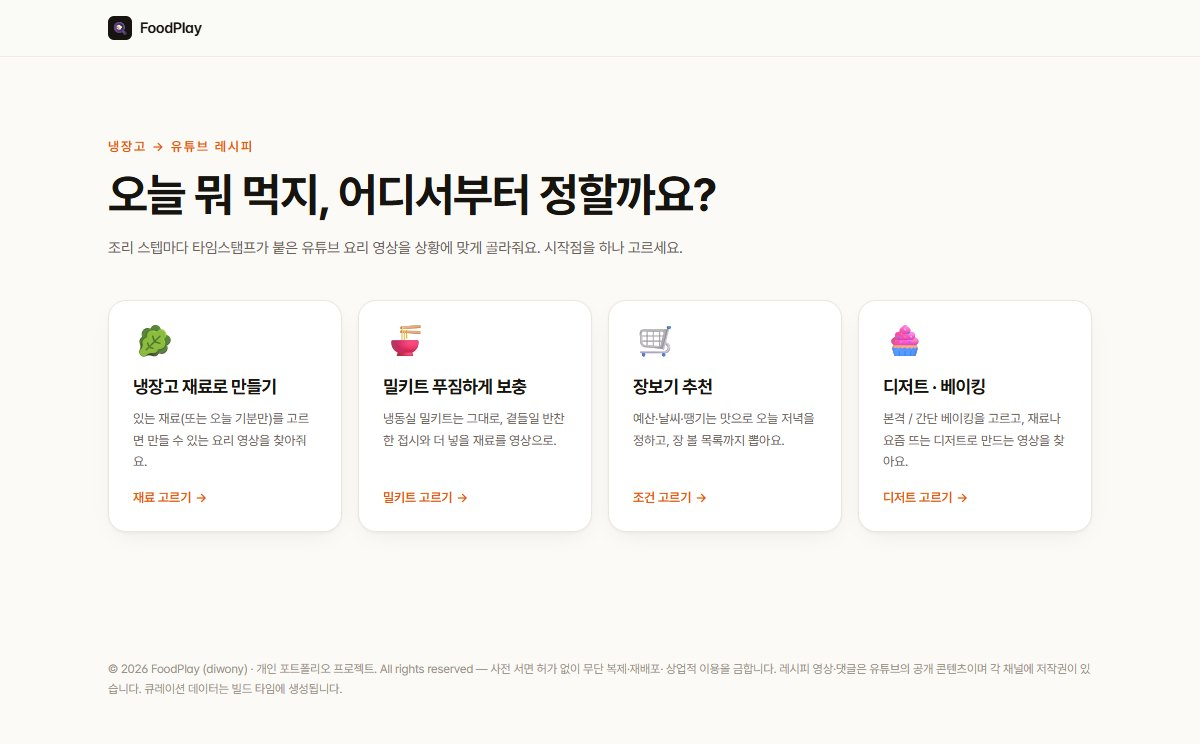
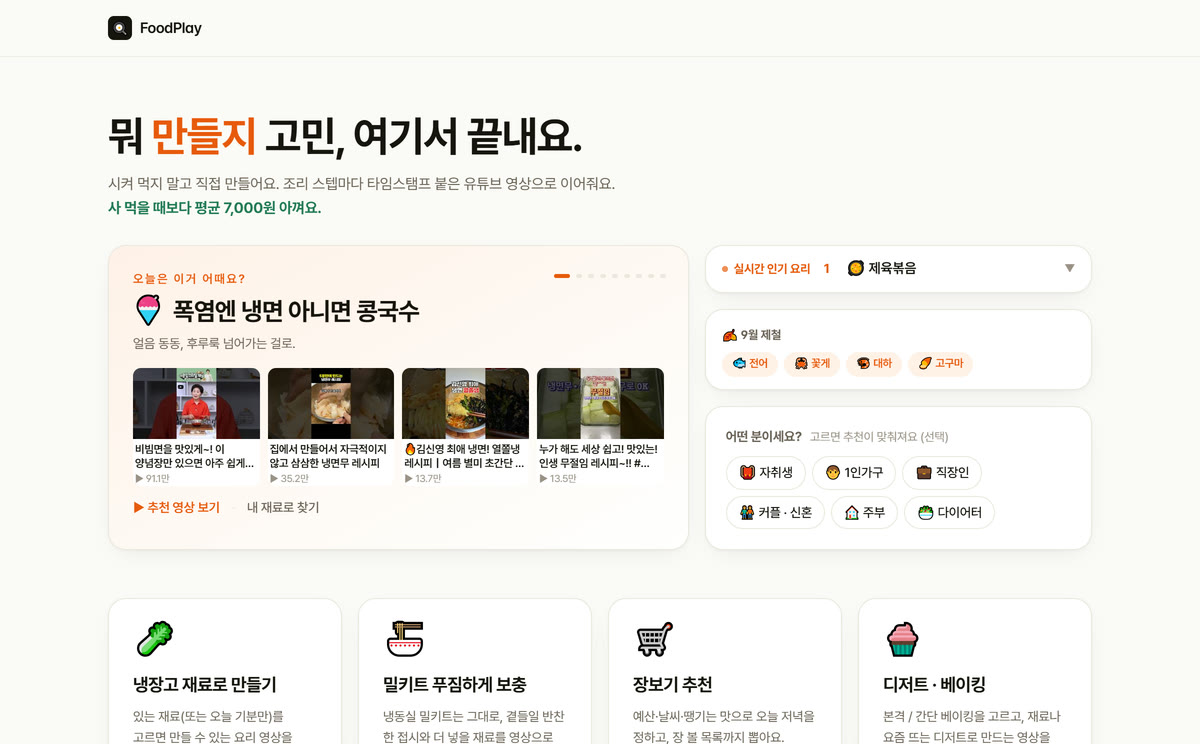
프로젝트 05 개요·문제 해결 요약 + 썸네일을 현행 랜딩으로 교체
- 개요: 4문장 → 2문장(핵심 + 주요 기능·역할)으로 축약, 다른 프로젝트 길이에 맞춤
- 문제 해결: 5개 → 4개, 각 한 줄로 정리
- project-05-poster.jpg: 구버전 랜딩 → 현재 FoodPlay 홈(발견·페르소나·제철) 화면으로 교체

diff --git a/script.js b/script.js
@@ -59,13 +59,12 @@
       num: '05', tag: 'PERSONAL PROJECT', title: 'FoodPlay — 냉장고 재료로 찾는 유튜브 요리 도우미',
       period: '약 5일', contribution: '100%(개인)',
       stack: ['React 19', 'TypeScript', 'Vite', 'Tailwind CSS v4', 'Expo · React Native 0.86', 'YouTube IFrame Player API', 'Cloudflare Workers · KV', 'YouTube Data API v3', 'Claude API (빌드 타임)'],
-      overview: '냉장고에 있는 재료를 입력하면 만들 수 있는 유튜브 요리 영상을 찾아주고, 조리 스텝마다 붙은 타임스탬프를 누르면 영상의 그 장면으로 바로 이동하는 요리 도우미 웹·모바일 앱. 재료가 없으면 기분·상황만 골라도 되고(냉장고·밀키트·장보기·디저트 4가지 시작 모드), 검색 없이 훑어보다 발견하는 홈과 자취생·1인가구·직장인 등 페르소나 맞춤 추천을 제공. 1인 개인 프로젝트로 기획·디자인·프론트엔드는 물론 자막을 스텝·타임스탬프로 바꾸는 Claude API 빌드 타임 파이프라인까지 전 과정을 담당. 코드 약 7.3k줄, 큐레이션 레시피 25개, 유튜브 영상 풀 11,200+.',
+      overview: '냉장고 재료를 입력하면 만들 수 있는 유튜브 요리 영상을 찾아주고, 조리 스텝의 타임스탬프를 누르면 영상의 그 장면으로 바로 이동하는 요리 도우미 웹·모바일 앱. 검색 없이 훑어보다 발견하는 홈, 자취생·1인가구 등 페르소나 맞춤 추천, 롱폼/숏폼 전환, 절약 금액·댓글 반응 요약도 함께 제공하며, 기획·디자인·프론트엔드부터 자막→스텝 변환 파이프라인(Claude API)까지 1인 진행.',
       problems: [
-        '레시피 영상에서 원하는 조리 장면을 찾기 번거로운 문제 → 스텝마다 타임스탬프 seek, 스크롤 시 우상단 미니 플레이어(PiP)로 고정. iframe 노드를 옮기거나 다시 만들지 않고 CSS 클래스만 바꿔 재생이 끊기지 않게 구현',
-        '"가진 재료로 뭘 만들지 모르겠다" + 재료를 하나씩 입력하는 마찰 → 재료·기분·상황을 칩 또는 자유 문장으로 받아 결과가 실제로 좁혀지는 매칭·랭킹 로직. vibe는 하드 필터가 아닌 정렬 가중치라 키워드를 잘못 잡아도 결과가 사라지지 않음',
-        '조회수로 정렬하면 한 채널이 목록 상단을 독식하는 문제 → 같은 채널이 반복될수록 커지는 감점을 주고 그리디하게 재정렬, 점수 차가 큰 상위권은 그대로 두고 비슷한 후보들 사이에서만 채널을 번갈아 노출',
-        '정적 배포(GitHub Pages)라 클라이언트에 YouTube API 키를 둘 수 없는 문제 → 키를 시크릿으로 숨긴 Cloudflare Workers 프록시(KV 24h 캐시·IP당 rate limit) 경유, 모든 실패를 빈 배열로 흡수해 11,000+ 정적 영상 풀로 조용히 폴백',
-        '웹(React)과 모바일(React Native)의 코드 중복 문제 → 매칭·랭킹·데이터 로직을 의존성 0인 @foodplay/core 패키지로 분리해 UI만 각자 만들고 나머지는 100% 공유, 영상 제어도 seekTo·pause 같은 계약으로 통일'
+        '레시피 영상에서 원하는 장면 찾기가 번거로움 → 스텝별 타임스탬프 seek + 스크롤 시 미니 플레이어(PiP) 고정, iframe 재생성 없이 CSS만 바꿔 재생 끊김 제거',
+        '"가진 재료로 뭘 할지 모르겠다" → 재료·기분·상황을 칩·자유 문장으로 받는 매칭·랭킹 로직, 4가지 시작 모드로 진입점 분리',
+        '조회수 정렬 시 인기 채널이 상단 독식 → 채널 반복마다 커지는 감점으로 그리디 재정렬해 비슷한 후보 사이에서만 다양화',
+        '정적 배포라 API 키 노출·목록 노후 위험 → 키 숨긴 Cloudflare Workers 프록시 + 11,000+ 영상 풀로 조용히 폴백'
       ],
       poster: './assets/project-05-poster.jpg',
       demos: { desktop: './assets/project-05-desktop.mp4', mobile: './assets/project-05-mobile.mp4' },
